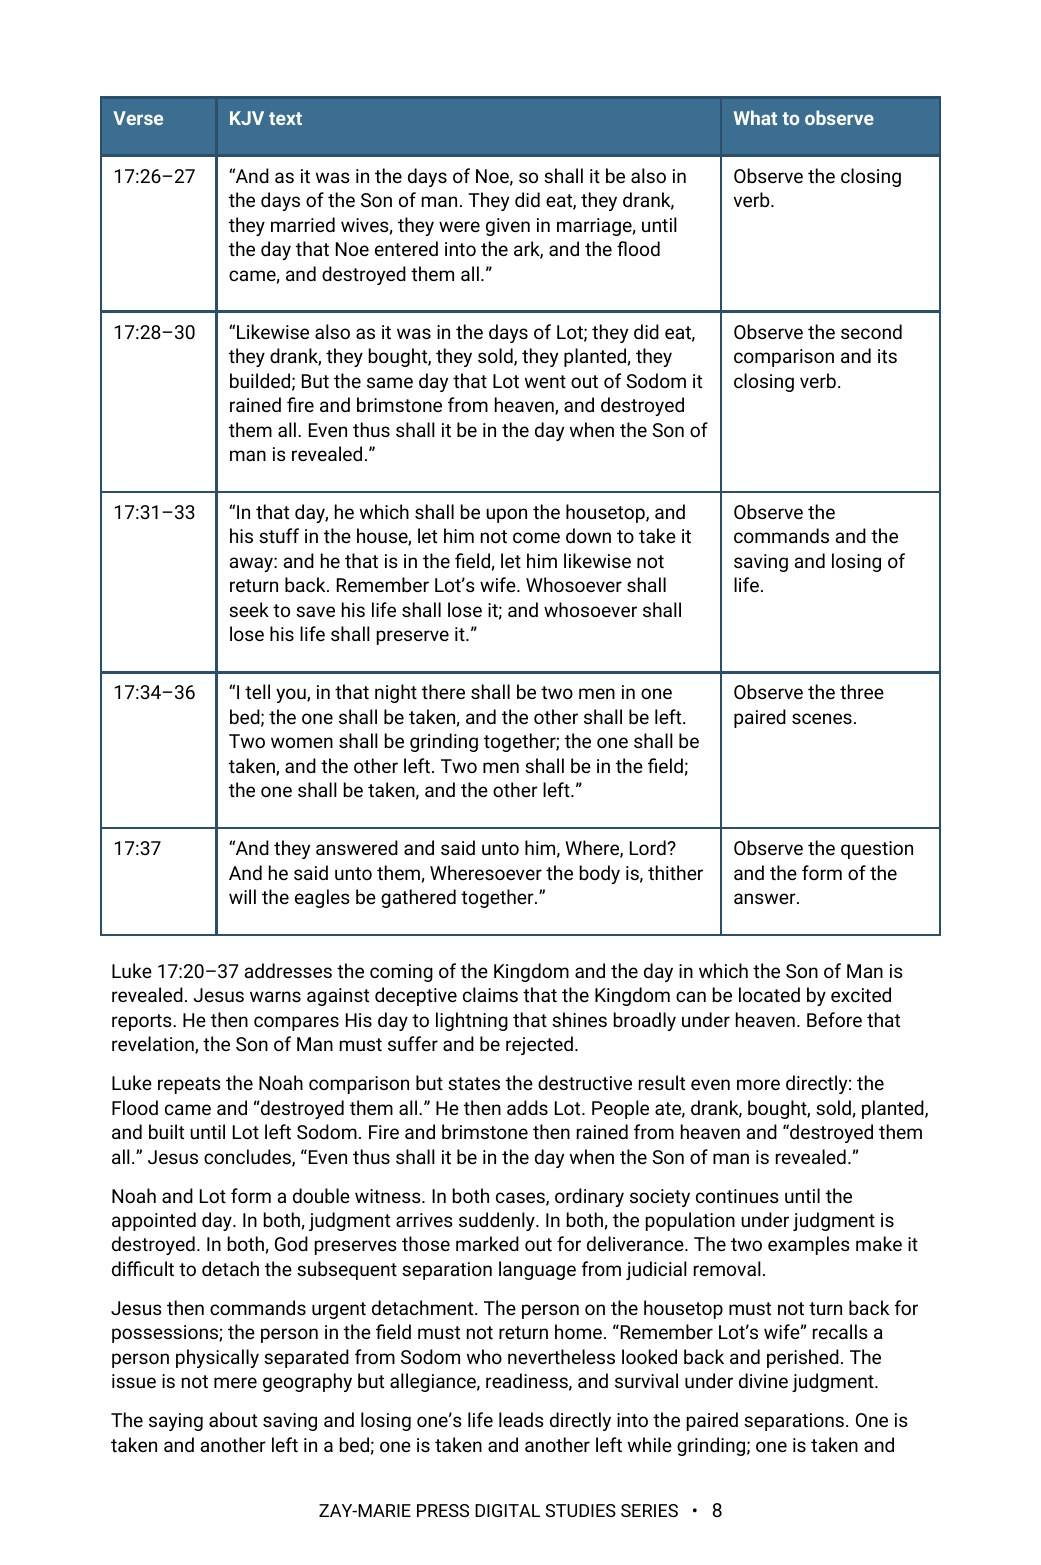
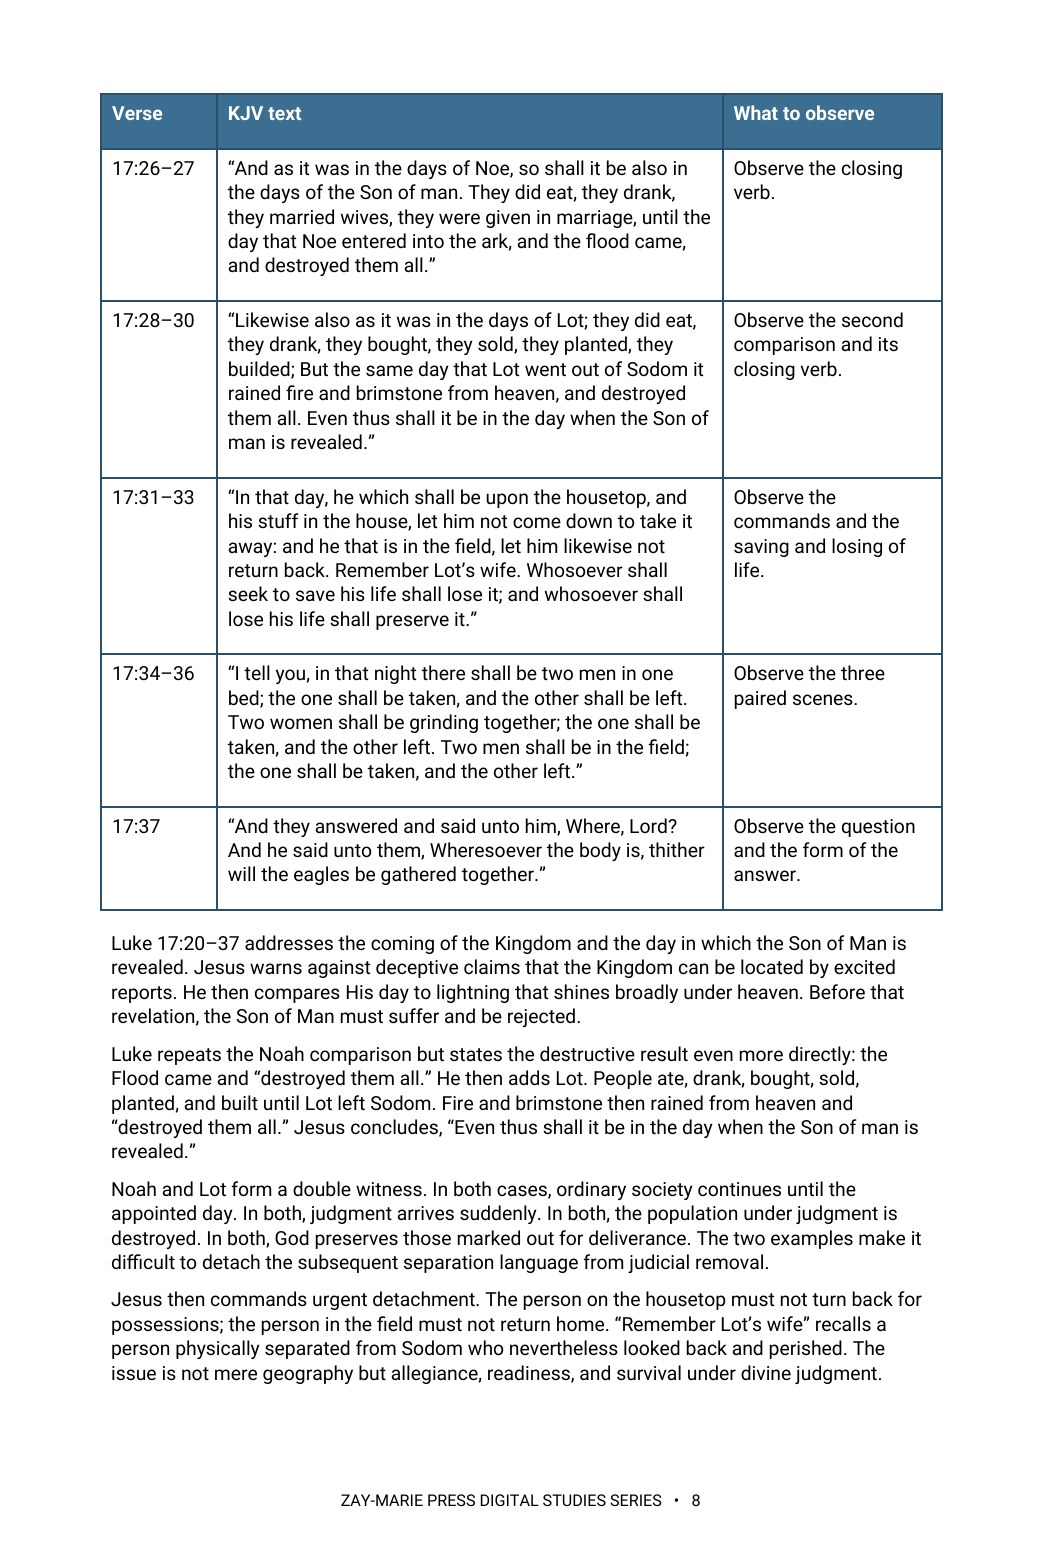
Study 29: retrofit website step (17 pages, previews 2/3/8, trackers v1.38/v1.132)
Claude-Session: https://claude.ai/code/session_01KcENxFzE91mCRyTPWhcwnE

Changed region(s): [[0.0922, 0.0615, 0.9222, 0.9834], [0.123, 0.3073, 0.1844, 0.338], [0.0922, 0.5224, 0.1537, 0.5531]]

diff --git a/site.js b/site.js
@@ -62,7 +62,7 @@ const resourceModal=document.querySelector('#resource-modal'), resourceModalTitl
 if(resourceModal&&resourceModalTriggers.length){const closeResourceModal=()=>{resourceModal.hidden=true;document.body.classList.remove('resource-modal-open');lastResourceTrigger?.focus();};resourceModalTriggers.forEach(trigger=>trigger.addEventListener('click',()=>{lastResourceTrigger=trigger;if(resourceModalTitle)resourceModalTitle.textContent=trigger.dataset.title||'Resource';if(resourceModalDescription)resourceModalDescription.textContent=trigger.dataset.description||'';if(resourceModalLink){resourceModalLink.href=trigger.dataset.href||'#';resourceModalLink.textContent=trigger.dataset.linkText||'OPEN RESOURCE';}resourceModal.hidden=false;document.body.classList.add('resource-modal-open');resourceModalClose?.focus();}));resourceModalClose?.addEventListener('click',closeResourceModal);resourceModal.addEventListener('click',e=>{if(e.target===resourceModal)closeResourceModal();});document.addEventListener('keydown',e=>{if(e.key==='Escape'&&!resourceModal.hidden)closeResourceModal();});}
 
 /* Display the verified final-PDF page count at the primary purchase decision point. */
-const digitalStudyPageCounts={1:17,2:14,3:16,4:18,5:16,6:16,7:14,8:13,9:16,10:20,11:15,12:15,13:19,14:15,15:16,16:16,17:18,18:18,19:16,20:16,21:17,22:16,23:14,24:16,25:17,26:16,27:16,28:16,29:16,30:17,31:19,32:16,33:16,34:16,35:16,36:16,37:16,38:16,39:16,40:16,41:16,42:16,43:16,44:16,45:16,46:16,47:16,48:16,49:17,50:16,51:16,52:16,53:16,54:16,55:16,56:16,57:16,58:16,61:16,62:16,63:16,64:16,65:16,66:16,67:16,68:16,69:16,70:16,71:16};
+const digitalStudyPageCounts={1:17,2:14,3:16,4:18,5:16,6:16,7:14,8:13,9:16,10:20,11:15,12:15,13:19,14:15,15:16,16:16,17:18,18:18,19:16,20:16,21:17,22:16,23:14,24:16,25:17,26:16,27:16,28:16,29:17,30:17,31:19,32:16,33:16,34:16,35:16,36:16,37:16,38:16,39:16,40:16,41:16,42:16,43:16,44:16,45:16,46:16,47:16,48:16,49:17,50:16,51:16,52:16,53:16,54:16,55:16,56:16,57:16,58:16,61:16,62:16,63:16,64:16,65:16,66:16,67:16,68:16,69:16,70:16,71:16};
 const digitalStudyMatch=window.location.pathname.match(/\/study-(\d+)-/i);
 const digitalStudyFormat=document.querySelector('.detail-hero .detail-format');
 if(digitalStudyMatch&&digitalStudyFormat){const studyNumber=Number(digitalStudyMatch[1]),pageCount=digitalStudyPageCounts[studyNumber];if(pageCount)digitalStudyFormat.textContent=`Digital PDF · ${pageCount} Pages`;}

diff --git a/CLAUDE.md b/CLAUDE.md
@@ -20,7 +20,7 @@ These are kept in the repo at `controlling-documents/` and are the current versi
 - As of v1.47 (publisher directive, 2026-10-02), §6 adds the **Interior Page Geometry and Text Layout Standard**, written into this file in the same pass: every Digital Study, earlier studies included, is set on the later studies' page and layout, not only in Roboto at the same sizes. Page 483.846 × 725.754 pt (9677 × 14515 twips) for cover and interior; cover its own full-bleed section (360 twip margins, no footer); interior margins top 864, bottom 1224, left/right 1031, header 400, footer 475; body left-aligned and flush left with no first-line indent (9 pt black Roboto Regular, 6 pt after, 0 before, 1.08); bold only for run-in leads ("Read:", "Purpose:", "Bring Your Findings Together:") and short emphasis, never a whole paragraph; lists 0 pt after each item and 6 pt after the last, 1.08; callout boxes 7815 twips wide with −100 twip indent; TOC right tab with dot leaders at 7615 twips; only the TOC and What You Will Learn start new pages, later sections flow continuously, and the imprint never stands alone. An earlier study built on any other page size (Letter 612 × 792, 432 × 648) is rebuilt to this geometry when reopened or retrofitted, the page count is recounted and the website updated, and the Heading 1 14 pt / TOC-spacing exemptions for Studies 1–5 and 9 no longer apply to a reopened study. In every study check (Step 1) measure page size, margins, first-line indents, whole-paragraph bold, list spacing, callout width and the TOC tab against Study 52 and report differences. Study 1 is the first earlier study rebuilt to it (17 pages). Preview images are rendered at the page's own aspect (1041×1562 for this page), not stretched.
 **`controlling-documents/Digital_Studies_Relationship_Map_v1.39.md`** — records each study's distinct subject, its related studies, the eight priced six-study collections, the Paul's Missionary Journeys cross-reference map, and the five primary catalog categories (currently version 1.39, covers Studies 1–71; update it as new studies publish, bump the version number, rename the file to match, and log the change in its own version-history table — mirroring the Master Standard's `_vX.Y` filename convention). Check a proposed topic against it before recommending or writing a new study. (2026-09-28: the file was missing from this repo despite this note referencing it; replaced from the publisher's copy and bumped v1.15→v1.25 in the same pass. If this note ever again points to a version not present under `controlling-documents/`, ask the publisher for a copy rather than proceeding without the check.)
 - **`controlling-documents/Digital_Studies_Category_Standard_v1.1.md`** — FINAL and binding (publisher, 2026-10-01): the rules for the five primary catalog categories (Foundations, Israel & Prophecy, Body of Christ, Passages, Doctrinal Themes), the ordered decision procedure for new studies, the precedents, all 71 fixed assignments, and the cover-label form for each category. Read it before placing any card or cover label. Do not ask the publisher where a study belongs; apply the procedure and state the result. Only the publisher changes a ruling; then bump this Standard's version and filename, re-letter the cover, and update the Relationship Map.
-- **`controlling-documents/Doctrinal_Upgrade_Retrofit_Plan_v1.37.md`** — working tracker for retrofitting Studies 1–59 to the 2026-10-02 doctrinal upgrade (Framework/PAM v1.1, Master Standard v1.40, Rules 7–17): withdrawn-wording search keys, impact tiers, waves and the per-study method. Read it before continuing the retrofit in any session; update status, bump the version and rename the file as work proceeds.
+- **`controlling-documents/Doctrinal_Upgrade_Retrofit_Plan_v1.38.md`** — working tracker for retrofitting Studies 1–59 to the 2026-10-02 doctrinal upgrade (Framework/PAM v1.1, Master Standard v1.40, Rules 7–17): withdrawn-wording search keys, impact tiers, waves and the per-study method. Read it before continuing the retrofit in any session; update status, bump the version and rename the file as work proceeds.
 - **`controlling-documents/Doctrinal_Packet_Standard_v0.3.md`** — Doctrinal Packet Standard (DRAFT; §7 approved). Governs the separate Doctrinal Packets product strand (5-page interpretive PDFs per Bible book — a print-friendly cover as page 1 plus 4 content pages, $2.99, KJV, pilot: Genesis, live at `packet-genesis.html`, hub `doctrinal-packets.html`; site pages say "5 Pages", cover styles live in `packets.css`, Old Testament blue and New Testament soft pale green, hub listed in Bible order). **Preview rule (publisher directive, 2026-09-29, packets only):** previews show about one page's worth in two cropped views (top of page 1 through the anchor texts; the chart section) — never the exegesis, architecture, Mystery contrast, logic chain, outline, or closing. Master Standard §16/§17 still govern Digital Studies. Bump the version and rename the file as the Standard is finalized.
 - **`controlling-documents/Preview_Page_Spoiler_Retrofit_Audit_v1.4.md`** — working tracker for the Studies 1–60 preview-page conclusion-spoiler retrofit (see the section below). Read it before continuing that audit in any session; update its status fields and changelog, bump the version, and rename the file to match as the audit proceeds — same `_vX.Y` convention as the other controlling documents. As of v1.1, the website-side half was DONE: all 60 studies' "What You'll Study" text was judged against the rule (methodology documented in the file) and 22 points across 11 studies were rewritten and pushed; an unrelated Study 22 content bug (Study 21's content had leaked into it) was also found and fixed. As of v1.2, the publisher supplied Studies 1–60's interior production PDFs and the interior-PDF half was also surveyed (read-only): 10 studies (37, 41, 45, 47, 48, 49, 51, 52, 53, 54) were found to have at least one interior "What You Will Learn" violation, 50 studies were confirmed compliant, and the orphaned `assets/study-45-sanctification-under-grace.docx` (removed from the repo per the publisher in v1.0) was confirmed word-for-word identical to Study 45's actual production interior PDF content. As of v1.3, the publisher supplied editable DOCX sources for all 10 violating studies; all 15 violating points were rewritten and approved, delivered as corrected final PDFs, and — along the way — a second defect was found and fixed (Studies 47 and 48's source DOCX still had an unintegrated cover placeholder despite both being long-published live with real covers; fixed by inserting the existing approved cover art). The website's "What You Will Learn" preview image (`study-NN-page-3.jpg`) was regenerated from the corrected content for all 10 studies and pushed to `main` (commit `cea1859`), verified against a fresh clone. **The website side of this audit is now fully compliant for all 60 studies.** Outstanding: the publisher's purchasable interior PDF files themselves have corrected versions delivered, but distribution to existing purchasers was decided by the publisher on 2026-09-29: silent swap of the files behind the existing downloads, no reissue notice (recorded in the v1.4 changelog entry; the product files are not in this repo).
 

diff --git a/controlling-documents/Doctrinal_Upgrade_Retrofit_Plan_v1.38.md b/controlling-documents/Doctrinal_Upgrade_Retrofit_Plan_v1.38.md
@@ -49,6 +49,7 @@ Working tracker for correcting published studies to the Framework/PAM v1.1, Mast
 | 10 Daniel's Seventieth Week | Tier 2 read (Acts 28, overlap, remnant, Revelation, Rule 18, Romans 11 passing cite, anchors) | DONE 2026-10-02 (v1.35): no DOCX existed, so a DOCX was rebuilt from the publisher's Roboto PDF (text verified word for word; only the listed edits differ) on the Study 52 page geometry (20 pp). Acts 28 standing wording in five places; overlap and Rule 17 sentences (section 3); Body-absent-from-the-week line; Revelation line; 2 Thessalonians anchor; Rule 18 short form (Investigation 2); Romans 11 four-point note + triad (Investigation 5); 'framework' reworded (section 2 now 'Structure'); imprint standard; approved ISRAEL & PROPHECY cover used (PDF carried an older cover). The page-6 diagram image is unchanged at the publisher's direction (title 'IN THE ACTS OVERLAP FRAMEWORK', 'PROPHECY SUSPENDED' marker, caption). Website: site.js 10:20, '20-Page', 'ready outline', previews 2/3/4 at 1041x1562. Title (Introduction) TOC entry left as published. |
 | 23 The 144,000 | Tier 2 read (Revelation, Body absent, Gentile multitude, Romans 11 passing cite in the diagram, anchors) | DONE 2026-10-02 (v1.36): rebuilt to the Study 52 page geometry (16 → 14 pp, Roboto Regular/Bold). Added the Body-not-in-Revelation line (section 17), Gentile multitude conformed to Rule 14 (section 7), 'Israel remains Israel, and the Body is not Israel' and 'belongs to the Mystery revealed through Paul' (section 18); Romans 11 four boundaries and triad added under the diagram (diagram image unchanged); no anchor needed (Revelation assigned); no internal terms. Third preview is now PDF page 9 (study-23-page-9.jpg). Imprint extra KJV sentence left for Wave 5. |
 | 26 The Seven Churches of Revelation | Tier 2 read (Revelation assigned, Body absent, anchors, internal terms) | DONE 2026-10-02 (v1.37): rebuilt to the Study 52 page geometry (18 → 16 pp, Roboto Regular/Bold). Removed 'The Framework notes', 'The Framework Control Document', 'the Framework’s taxonomy' and the false 'Program Assignment Manual assigns no program to Revelation' line; generic 'framework' removed; hedge replaced by the standing Revelation line (Body absent; Revelation, like Daniel’s 70th week, wholly Israel’s Prophecy Program) in section 14; Philadelphia/Rev 3:10 not a statement about the Body; Colossians anchor added (section 3). Third preview now PDF page 10 (study-26-page-10.jpg). Imprint extra KJV sentence left for Wave 5. |
+| 29 One Taken and the Other Left | Tier 2 read (one taken/left ruling, Day of the Lord, anchors, internal terms) | DONE 2026-10-02 (v1.38): rebuilt to the Study 52 page geometry (16 → 17 pp, Roboto Regular/Bold). Removed 'the Framework’s assignment' (Conclusion) and 'Kingdom framework'; added the Body-not-in-the-Day-of-the-Lord line (section 9), the Matthew 25 nations line (section 7) and the 1 Thessalonians/Philippians reader-facing anchor (section 9). One taken/left reading already conformed (Israel’s Tribulation separation, not a rapture text). Previews 2, 3, 8 re-rendered. TOC check hardened (monotonic page search; Studies 23, 26 re-verified). Imprint extra KJV sentence left for Wave 5. |
 | 39 The Church's Relationship to Israel's Scriptures | Abrahamic/covenant participation + overlap sentence | DONE 2026-10-02 (v1.23): interior corrected (16 pp, Roboto). Withdrawn overlap sentence replaced with the standing sentence and Acts 28 'not abolition and not a transfer' added (§9); 'Gentiles participate spiritually' replaced by the standing Galatians 3 sentence (§8) and 'whole/every covenant term' partial-transfer wording tightened (§8, Study Summary, Key Distinctions table); Romans 11 four-point list and triad added (Introduction); 2 Timothy and Philippians anchors converted and a Colossians anchor added. Sections moved down: TOC updated (7 numbers); 16 pp. Website: previews 2, 3, 5 re-rendered at 1041x1565; site.js 39:16 unchanged |
 | 40 Who Is Abraham's Seed? | Gal 3 / Abrahamic participation (core) | DONE 2026-10-02 (v1.22): interior corrected (16 pp, Roboto). Withdrawn overlap sentence replaced with the standing sentence (Introduction); Romans 11 four-point list and triad added (Introduction); the 'Gentiles participate spiritually / Abrahamic heirship, benefit, inheritance, connection' family replaced with the standing Galatians 3 sentence and plain wording (§6, §8, §10, Study Summary, Key Distinctions table); Romans 4 'participate in promise' and Teaching Outline 'share that benefit' reworded. Sections moved down: TOC updated (Conclusion p10, Scripture-Tracing p11, Guided Further Study p16); 16 pp. Website: preview pages 2, 3 and 4 re-rendered; site.js 40:16 unchanged |
 | 52 Sonship and Adoption | Gal 3 / Abrahamic participation | DONE 2026-10-02 (v1.21): interior corrected (16 pp, Roboto). Withdrawn Galatians 3:26–29 'Gentiles participate spiritually / ethnic distinction is kept' wording replaced by the standing Galatians 3 sentence (3.4) and the 'participation in the seed is spiritual' line reworded; Study 40 pointer parenthetical removed; nine 'The Framework does not assign…' anchors and the Hebrews sentence converted to the reader-facing forms; Romans 11 four-point list and triad added (Group 3). Shorter anchors moved sections up a page, so TOC numbers updated (§5 p9, §6 p11, Conclusion p12, etc.); total still 16 pp. Website: page-2 (TOC) preview re-rendered; pages 3 and 5 unchanged |
@@ -120,3 +121,4 @@ Working tracker for correcting published studies to the Framework/PAM v1.1, Mast
 - v1.35 (2026-10-02): Study 10 retrofit complete (see row). Next: Wave 4 remainder (23, 26, 29, 31, 32, 33): DOCX needed from the publisher for each. Open: Titus anchor ruling; Study 10 DOCX now exists (first editable source).
 - v1.36 (2026-10-02): Study 23 retrofit complete (see row). Next: Wave 4 remainder (26, 29, 31, 32, 33): DOCX needed from the publisher for each. Open: Titus anchor ruling.
 - v1.37 (2026-10-02): Study 26 retrofit complete (see row). Next: Wave 4 remainder (29, 31, 32, 33): DOCX needed from the publisher for each. Open: Titus anchor ruling.
+- v1.38 (2026-10-02): Study 29 retrofit complete (see row). Next: Wave 4 remainder (31, 32, 33): DOCX needed from the publisher for each. Open: Titus anchor ruling.

diff --git a/controlling-documents/Digital_Studies_PAM_Audit_v1.132.md b/controlling-documents/Digital_Studies_PAM_Audit_v1.132.md
@@ -361,3 +361,4 @@ Study 15 PDF not yet supplied. Typography: none of Studies 2, 3, 6, 8 is in EB G
 - v1.129 (2026-10-02): Study 10 retrofitted (DOCX rebuilt from the publisher's PDF; standing Acts 28/overlap/Rule 17/Daniel/Revelation/Rule 18/Romans 11 wording, anchor, 'framework' removed; 20 pp on the standard geometry); diagram image left unchanged by the publisher.
 - v1.130 (2026-10-02): Study 23 retrofitted: Body-not-in-Revelation line, Gentile multitude and Israel/Body wording conformed, Romans 11 boundaries added under the diagram; rebuilt to the standard page geometry (14 pp); third preview is PDF page 9.
 - v1.131 (2026-10-02): Study 26 retrofitted: internal terms removed (Framework, Framework Control Document, taxonomy, Program Assignment Manual), Revelation standing line, Rev 3:10 and Colossians anchor added; rebuilt to the standard page geometry (16 pp); third preview is PDF page 10.
+- v1.132 (2026-10-02): Study 29 retrofitted: Framework wording removed, Day-of-the-Lord, Matthew 25 nations and 1 Thessalonians/Philippians anchor lines added; rebuilt to the standard page geometry (17 pp); previews 2, 3, 8 re-rendered.
